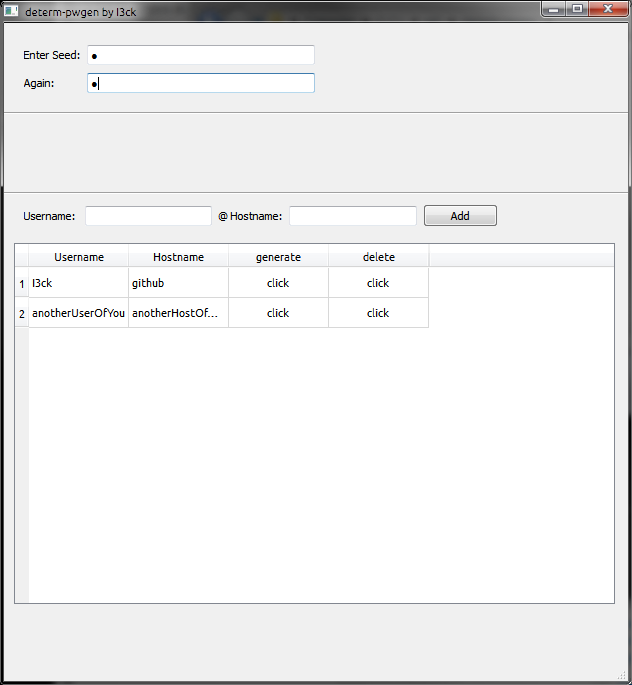
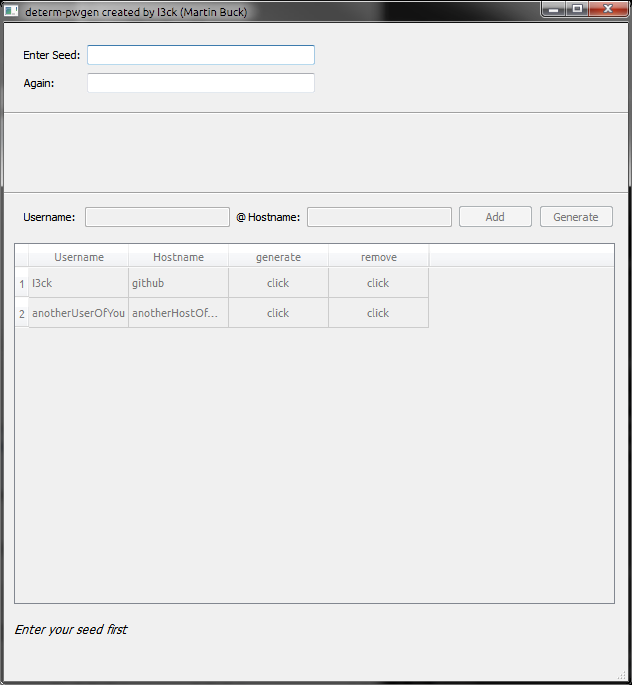
Updated the README to show new GUI and CLI version, and better explain them. Also removed several TODOs

diff --git a/README.md b/README.md
@@ -7,14 +7,19 @@ You'll only have to remember one password / seed and can use it to generate a un
 
 The GUI
 -------
+Enter your seed twice to enable the account table:  
 ![alt tag](https://raw.githubusercontent.com/I3ck/determ-pwgen/master/img/gui-example-1.png)  
+After that, simply click onto the `generate` cells to generate a password for the desired account:  
 ![alt tag](https://raw.githubusercontent.com/I3ck/determ-pwgen/master/img/gui-example-2.png)  
-no, I didn't use my seed there ;)  
+Copy and paste your password to where it's needed:  
+![alt tag](https://raw.githubusercontent.com/I3ck/determ-pwgen/master/img/gui-example-3.png)
+You can also add / remove accounts or generate a password directly, without adding them. `accounts.json` will be updated automatically.  
+No, I didn't use my seed there ;)  
 
 The cli
 -------
 ```
- ___________________________________________________________________
+___________________________________________________________________
 | determ-pwgen created by I3ck (Martin Buck)                        |
 | https://github.com/I3ck/determ-pwgen                              |
 | licensed under the MIT License (see LICENSE file)                 |
@@ -22,47 +27,64 @@ The cli
 |___________________________________________________________________|
 
 
-Enter the following:
-
-password:
+Enter your seed:
+Seed:
 ```
-after entering your password, hostname and username:  
+Selection of usage mode:
 ```
- ___________________________________________________________________
-| determ-pwgen created by I3ck (Martin Buck)                        |
-| https://github.com/I3ck/determ-pwgen                              |
-| licensed under the MIT License (see LICENSE file)                 |
-| use determ-pwgen-qt.pyw for a graphical user interface            |
-|___________________________________________________________________|
+Select usage mode:
+[1] Input host- and username directly
+[2] Use accounts.json
+>
+```
+Mode 1 let's you directly input username and hostname to generate a password:
+```
+> 1
 
+Enter the username and hostname you want to generate a password for:
 
-Enter the following:
+Username: user
+Hostname: host
+--------------------------------------------------------------------------------
 
-password:
-Re-enter password:
+user @ host:
+N0Eks3fpIyeb/vMGDDbRoD8qxKo5ClxBwvGMtFQ03EI=
+--------------------------------------------------------------------------------
+```
 
-Main Menu:
+Mode 2 allows you to generate passwords from your accounts.json file:
+```
+> 2
 
-1. Input host and usernames by hand.
-2. Use accounts.json
-Make a selection: 1
-
-
-Please enter the domain or name of the program (e.g. google or outlook): github
-Please enter your username for github: I3ck
+Edit accounts.json to add or remove accounts
+[    0] I3ck@github
+[    1] anotherUserOfYou@anotherHostOfYou
+Type the number of the account you want to generate the password for
+(-1 to abort)
+> 0
+--------------------------------------------------------------------------------
 
 I3ck @ github:
 bZEEagyeplME04hqFxxA6vSwSffwL5/1hviZa4H8JwI=
-
-
-Please enter the domain or name of the program (e.g. google or outlook):
+--------------------------------------------------------------------------------
 ```
-no, I didn't use my seed there ;)  
+The accounts.json is a simple json file:
+```json
+[
+    {
+        "username": "I3ck",
+        "hostname": "github"
+    },
+    {
+        "username": "anotherUserOfYou",
+        "hostname": "anotherHostOfYou"
+    }
+]
+...
+```
+which you can edit to add / remove accounts (or use the Qt GUI version)
 
-
-
-
-Version 3.3.7
+Version 3.3.8
 =============
 
 
